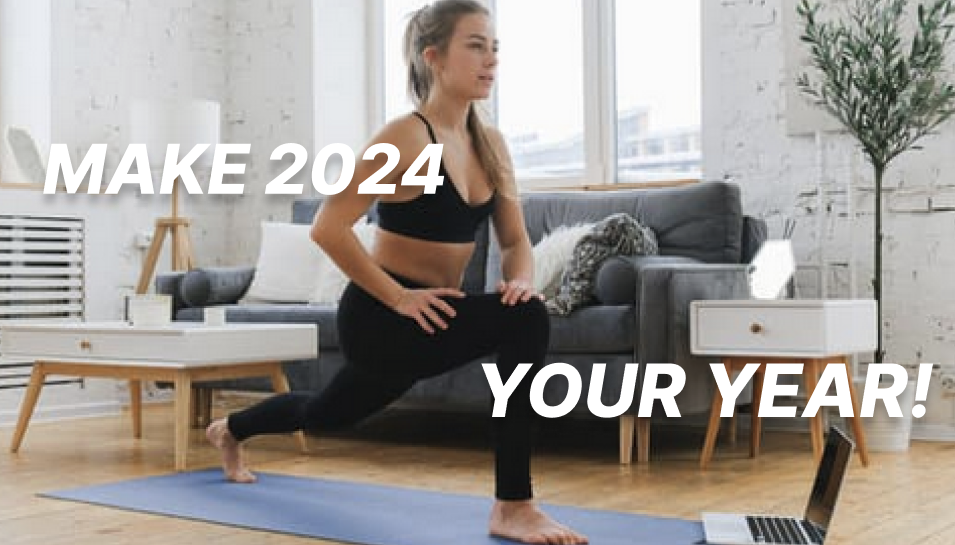
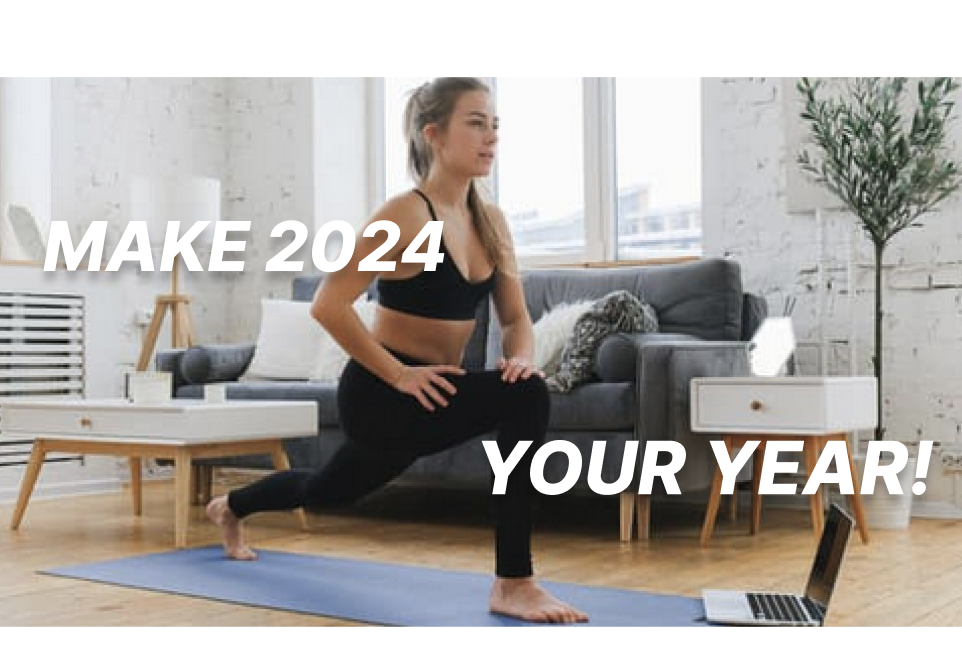
carousel image

diff --git a/better_u/lib/screens/home.dart b/better_u/lib/screens/home.dart
@@ -1,9 +1,12 @@
 import 'package:carousel_slider/carousel_slider.dart';
 import 'package:flutter/material.dart';
+import 'package:flutter/rendering.dart';
 
 class Home extends StatelessWidget {
   @override
   Widget build(BuildContext context) {
+    double screenWidth = MediaQuery.of(context).size.width;
+
     return Scaffold(
       appBar: AppBar(
         title: Row(
@@ -27,30 +30,53 @@ class Home extends StatelessWidget {
           ],
         ),
       ),
-      body: Column(
-        children: [
-          CarouselSlider(
-            items: [
-              Image.asset('images/carousel1.png'),
-              Image.asset('images/carousel2.png'),
-              Image.asset('images/carousel3.jpg'),
-            ], 
-            options: CarouselOptions(
-              height: 200,
-              aspectRatio: 16/9,
-              viewportFraction: 0.8,
-              initialPage: 0,
-              enableInfiniteScroll: true,
-              autoPlay: true,
-              autoPlayInterval: Duration(seconds: 3),
-              autoPlayAnimationDuration: Duration(milliseconds: 800),
-              autoPlayCurve: Curves.fastOutSlowIn,
-              enlargeCenterPage: true,
-              scrollDirection: Axis.horizontal,
+      body: Padding(
+        padding: const EdgeInsets.only(top: 16),
+        child: Column(
+          children: [
+            CarouselSlider(
+              items: [
+                ContainImage(imagePath: 'images/carousel1.png'),
+                ContainImage(imagePath: 'images/carousel2.png'),
+                ContainImage(imagePath: 'images/carousel3.jpg'),
+              ], 
+              options: CarouselOptions(
+                height: 200,
+                aspectRatio: screenWidth / 200,
+                viewportFraction: 1.0,
+                initialPage: 0,
+                enableInfiniteScroll: true,
+                autoPlay: true,
+                autoPlayInterval: Duration(seconds: 3),
+                autoPlayAnimationDuration: Duration(milliseconds: 800),
+                autoPlayCurve: Curves.fastOutSlowIn,
+                enlargeCenterPage: true,
+                scrollDirection: Axis.horizontal,
+              ),
             ),
-          ),
-        ],
+          ],
+        ),
       )
+    );
+  }
+}
+
+class ContainImage extends StatelessWidget {
+  final String imagePath;
+
+  const ContainImage({required this.imagePath});
+
+  @override
+  Widget build(BuildContext context) {
+    return LayoutBuilder(
+      builder: (context, constraints) {
+        return Image.asset(
+          imagePath,
+          width: constraints.maxWidth,
+          height: constraints.maxHeight,
+          fit: BoxFit.cover,
+        );
+      },
     );
   }
 }

diff --git a/better_u/lib/main.dart b/better_u/lib/main.dart
@@ -26,7 +26,7 @@ class MyApp extends StatelessWidget {
       routes: {
         '/home': (context) => Home(),
       },
-      home: const OnboardingPage(),
+      home: Home(),
     );
   }
 }
